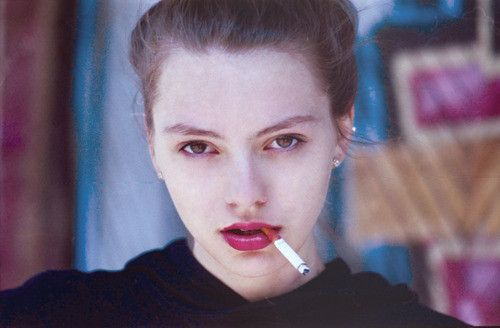
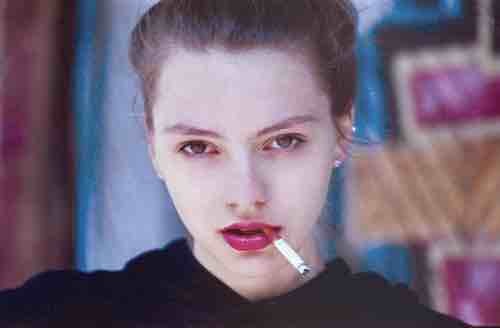
压缩图片

diff --git a/style/main.css b/style/main.css
@@ -1,6 +1,6 @@
 h2 {
-    font-size: 40px;
-    line-height: 56px;
+    font-size: 20px;
+    line-height: 28px;
     color: #1D1D1D;
 }
 
@@ -19,12 +19,12 @@ main {
 }
 
 .inspiration {
-    padding: 28px;
+    padding: 19px;
 }
 
 .section-title {
-    font-size: 24px;
-    line-height: 33px;
+    font-size: 12px;
+    line-height: 16px;
     color: #417505;
 }
 
@@ -32,14 +32,14 @@ main {
 }
 
 .article-content {
-    font-size: 32px;
-    line-height: 45px;
+    font-size: 16px;
+    line-height: 22px;
     color: #333333;
-    margin-top: 12px;
+    margin-top: 6px;
 }
 
 .store {
-    margin: 28px 0;
+    margin: 19px 0;
     box-shadow: 0 2px 4px 2px rgba(221, 221, 221, 0.50);
     border-radius: 7px 7px 8px 8px;
 }
@@ -51,46 +51,46 @@ main {
 }
 
 .store-info {
-    padding: 20px;
+    padding: 10px;
     position: relative;
 }
 
 .store-location {
-    font-size: 24px;
-    line-height: 33px;
+    font-size: 12px;
+    line-height: 16px;
     color: #666666;
 }
 
 .store-name {
-    font-size: 32px;
-    line-height: 45px;
+    font-size: 16px;
+    line-height: 22px;
     color: #1D1D1D;
 }
 
 
 .store-avatar {
     position: absolute;
-    top: -40px;
+    top: -20px;
     right: 0;
-    width: 108px;
-    height: 108px;
-    border: 6px solid #FFFFFF;
-    border-radius: 60px;
+    width: 54px;
+    height: 54px;
+    border: 3px solid #FFFFFF;
+    border-radius: 50%;
     z-index: 1;
 }
 
 .store-tag {
-    width: 108px;
-    height: 32px;
+    width: 54px;
+    height: 16px;
     position: absolute;
-    right: 6px;
-    top: 58px;
+    right: 3px;
+    top: 29px;
     z-index: 1;
-    border-radius: 18px;
+    border-radius: 9px;
     color: #fff;
     text-align: center;
-    font-size: 20px;
-    line-height: 28px;
+    font-size: 10px;
+    line-height: 14px;
 }
 
 .popular {
@@ -102,18 +102,21 @@ main {
 }
 
 .store-appraise {
+    font-size: 0;
 }
-
+.star{
+    margin-right: 4px;
+}
 .score-comments {
     display: inline;
-    font-size: 20px;
-    line-height: 28px;
+    font-size: 10px;
+    line-height: 14px;
     color: #666666;
 }
 
 .user-avatar {
-    width: 40px;
-    height: 40px;
+    width: 20px;
+    height: 20px;
     border-radius: 50%;
 }
 
@@ -121,23 +124,23 @@ main {
     width: 100%;
     display: flex;
     align-items: center;
-    padding: 12px 0;
+    padding: 6px 0;
     border-bottom: 1px solid #ECECEC;
 }
 
 .comment-content {
-    font-size: 24px;
+    font-size: 12px;
     color: #1D1D1D;
     letter-spacing: -0px;
-    line-height: 33px;
+    line-height: 16px;
     white-space: nowrap;
     overflow: hidden;
     text-overflow: ellipsis;
-    padding-left: 10px;
+    padding-left: 5px;
 }
 
 .price-discount {
-    margin-top: 16px;
+    margin-top: 8px;
     color: #1D1D1D;
     display: flex;
     align-items: center;
@@ -145,29 +148,29 @@ main {
 }
 
 .price {
-    font-size: 28px;
+    font-size: 14px;
     letter-spacing: -0px;
-    line-height: 40px;
+    line-height: 20px;
 }
 
 .discount {
     display: flex;
     align-items: center;
-    font-size: 24px;
+    font-size: 12px;
 }
 
 .discount-logo {
-    width: 30px;
-    height: 30px;
+    width: 15px;
+    height: 15px;
     background-color: #333333;
-    font-size: 20px;
-    line-height: 28px;
+    font-size: 10px;
+    line-height: 14px;
     color: #FFFFFF;
-    border-radius: 4px;
+    border-radius: 2px;
     text-align: center;
-    margin-right: 8px;
+    margin-right: 4px;
 }
 .inset{
-    margin-top: 30px;
+    margin-top: 15px;
     width: 100%;
 }

diff --git a/html/index.html b/html/index.html
@@ -46,14 +46,13 @@
                     <div class="store-tag popular">人气店铺</div>
                 </div>
                 <div class="store-appraise">
-                    <img src="../assets/imgs/small%20star@2x.png" alt="star">
-                    <img src="../assets/imgs/small%20star@2x.png" alt="star">
-                   <img src="../assets/imgs/small%20star@2x.png" alt="star">
-                    <img src="../assets/imgs/small%20star@2x.png" alt="star">
-                    <img src="../assets/imgs/small%20star@2x.png" alt="star">
+                    <img src="../assets/imgs/small%20star@1x.png" alt="star" class="star">
+                    <img src="../assets/imgs/small%20star@1x.png" alt="star" class="star">
+                    <img src="../assets/imgs/small%20star@1x.png" alt="star" class="star">
+                    <img src="../assets/imgs/small%20star@1x.png" alt="star" class="star">
+                    <img src="../assets/imgs/small%20star@1x.png" alt="star" class="star">
                     <div class="score-comments">
-                        <text class="score">7.8分</text>
-                        <text class="comment-num">·187条评论</text>
+                        <text class="score">7.8分</text><text class="comment-num">·187条评论</text>
                     </div>
                 </div>
                 <div class="user-comment">
@@ -69,7 +68,8 @@
                 </div>
             </div>
         </div>
-        <p class="article-content">下面登场的是另一批店，这批店铺也是很吊的哦，什么old school 什么new school什么teacher 什么鬼东西，我都不知道我在说什么的啊！！！反正给我看就是了！</p>
+        <p class="article-content">下面登场的是另一批店，这批店铺也是很吊的哦，什么old school 什么new school什么teacher
+            什么鬼东西，我都不知道我在说什么的啊！！！反正给我看就是了！</p>
         <div class="store">
             <!--                轮播图-->
             <div class="swiper-container">
@@ -91,14 +91,13 @@
                     <div class="store-tag certification">认证店铺</div>
                 </div>
                 <div class="store-appraise">
-                    <img src="../assets/imgs/small%20star@2x.png" alt="star">
-                    <img src="../assets/imgs/small%20star@2x.png" alt="star">
-                    <img src="../assets/imgs/small%20star@2x.png" alt="star">
-                    <img src="../assets/imgs/small%20star@2x.png" alt="star">
-<!--                    <img src="../assets/imgs/small%20star@2x.png" alt="star">-->
+                    <img src="../assets/imgs/small%20star@1x.png" alt="star" class="star">
+                    <img src="../assets/imgs/small%20star@1x.png" alt="star" class="star">
+                    <img src="../assets/imgs/small%20star@1x.png" alt="star" class="star">
+                    <img src="../assets/imgs/small%20star@1x.png" alt="star" class="star">
+<!--                    <img src="../assets/imgs/small%20star@1x.png" alt="star" class="star">-->
                     <div class="score-comments">
-                        <text class="score">7.8分</text>
-                        <text class="comment-num">·187条评论</text>
+                        <text class="score">7.8分</text><text class="comment-num">·187条评论</text>
                     </div>
                 </div>
                 <div class="user-comment">

diff --git a/style/swiper.min.css b/style/swiper.min.css
@@ -275,7 +275,6 @@
     border-radius: 100%;
     background: #fff;
     opacity: .5;
-    transform: scale(1.5);
 }
 
 button.swiper-pagination-bullet {
@@ -296,7 +295,7 @@ button.swiper-pagination-bullet {
 .swiper-pagination-bullet-active {
     opacity: 1;
     background: #fff;
-    transform: scale(2);
+    transform: scale(1.2);
 }
 
 .swiper-container-vertical > .swiper-pagination-bullets {
